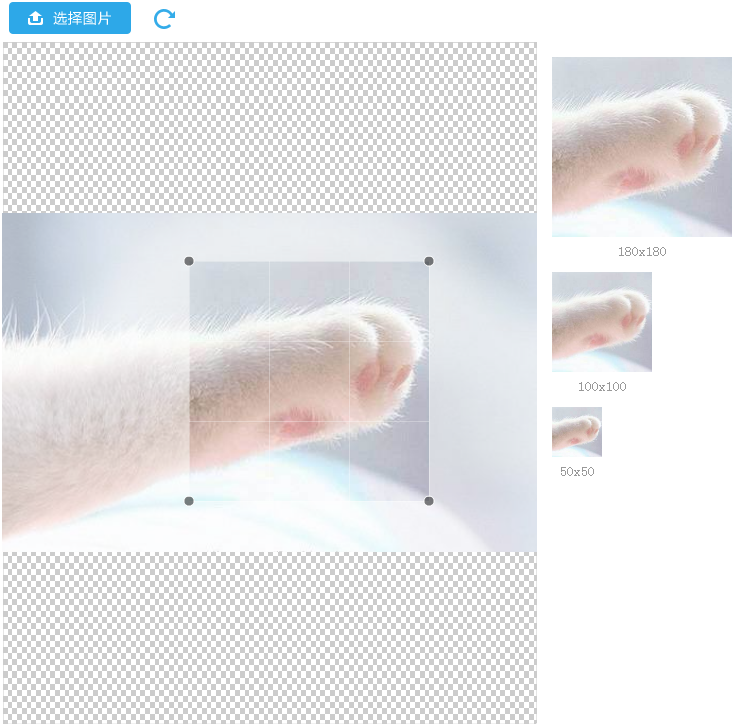
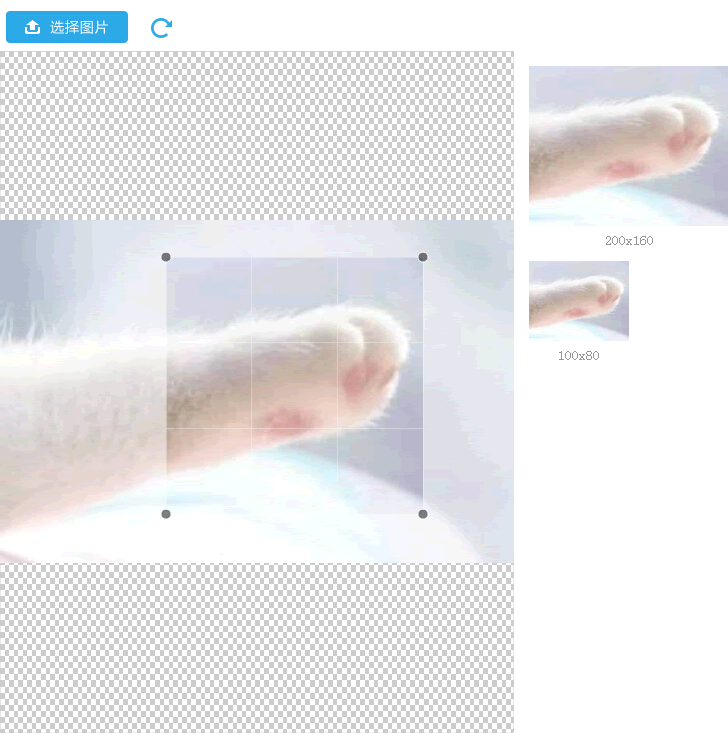
demo

diff --git a/_site/index.html b/_site/index.html
@@ -13,6 +13,16 @@
             　　<ul class="post-list">
         
             <li>
+                <a href="/2015/07/30/image-cliper.html">图片裁剪上传组件</a>
+                <p>30 Jul 2015 </p>
+            </li>
+        
+            <li>
+                <a href="/2015/05/27/head-image-cliper.html">图片裁剪上传组件</a>
+                <p>27 May 2015 </p>
+            </li>
+        
+            <li>
                 <a href="/2015/02/27/3d-iphone-with-css3.html">用css3绘制3d手机</a>
                 <p>27 Feb 2015 </p>
             </li>

diff --git a/_posts/2015-07-30-image-cliper.md b/_posts/2015-07-30-image-cliper.md
@@ -26,18 +26,20 @@
 <script src="/resource/2015/imagecliper/imageCliper.js"></script>
 <script>
     window.onload = function(){
-
         var container = document.getElementById('headImage');
         window.imageCliper = new ImageCliper({
             container: container, //上传界面的容器，原生dom
-            flashUrl: '/resource/2015/imagecliper/ImageCliper.swf?v=0527', //上传flash的地址,加上版本号，防止flash被缓存
             width: container.clientWidth, //flash的宽度
             height: container.clientHeight, //flash的高度
+            ratio: 1, //长宽比。默认为1。若为浮点数则会根据此比例裁剪图片。若不需要按比例裁剪，请设置为0
+            flashUrl: '/resource/2015/imagecliper/ImageCliper.swf?v=0731', //上传flash的地址
+            resourceUrl: '/resource/2015/imagecliper/', //flash包含的按钮、光标等静态文件的放置路径
             uploadUrl: '/resource/2015/imagecliper/upload.php', //上传路径
+            uploadSize: '200*160', //上传到服务器的图片的尺寸，若不指定，将直接上传裁剪后的图片区域
             file: 'file', //上传的字段名，默认为file
             isPreview: true, //是否显示预览图
-            previewSize: '180|100|50', //预览图尺寸。'200|100'代表显示200*200和100*100的预览图。注意预览图的尺寸如果过大，可能会超出flash的可视范围，此时应该设置不显示预览图或者增大flash的宽高度
-            resourceUrl: '/resource/2015/imagecliper/' //flash包含的按钮、光标等静态文件的放置路径
+            previewSize: '200*160|100*80', //显示哪些尺寸的预览图
+            defaultPreview: '/resource/2015/imagecliper/test.jpg' //默认显示的预览图
         });
 
         imageCliper.bind("complete",function(evt, response){
